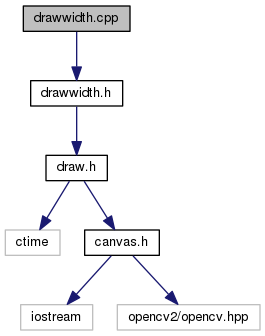
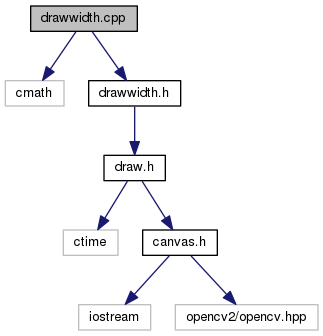
fixed line width

diff --git a/doc/doxygen/html/drawwidth_8h_source.html b/doc/doxygen/html/drawwidth_8h_source.html
@@ -92,7 +92,7 @@ var searchBox = new SearchBox("searchBox", "search",false,'Search');
 <div class="ttc" id="classDraw_html"><div class="ttname"><a href="classDraw.html">Draw</a></div><div class="ttdoc">Plain draw-line algorithm. </div><div class="ttdef"><b>Definition:</b> draw.h:8</div></div>
 <div class="ttc" id="classDraw_html_a72ed77716d9eb7068414f0e4e00753bd"><div class="ttname"><a href="classDraw.html#a72ed77716d9eb7068414f0e4e00753bd">Draw::canvas</a></div><div class="ttdeci">Canvas &amp; canvas</div><div class="ttdef"><b>Definition:</b> draw.h:17</div></div>
 <div class="ttc" id="canvas_8h_html_a084a39206618848fb8bc9187d3758c87"><div class="ttname"><a href="canvas_8h.html#a084a39206618848fb8bc9187d3758c87">Color</a></div><div class="ttdeci">cv::Vec3b Color</div><div class="ttdef"><b>Definition:</b> canvas.h:7</div></div>
-<div class="ttc" id="classDrawWidth_html_a566f96378bc924c2362551c062612131"><div class="ttname"><a href="classDrawWidth.html#a566f96378bc924c2362551c062612131">DrawWidth::drawImpl</a></div><div class="ttdeci">void drawImpl(int x0, int y0, int x1, int y1, const Color &amp;color) override</div><div class="ttdoc">Implementation. </div><div class="ttdef"><b>Definition:</b> drawwidth.cpp:3</div></div>
+<div class="ttc" id="classDrawWidth_html_a566f96378bc924c2362551c062612131"><div class="ttname"><a href="classDrawWidth.html#a566f96378bc924c2362551c062612131">DrawWidth::drawImpl</a></div><div class="ttdeci">void drawImpl(int x0, int y0, int x1, int y1, const Color &amp;color) override</div><div class="ttdoc">Implementation. </div><div class="ttdef"><b>Definition:</b> drawwidth.cpp:4</div></div>
 <div class="ttc" id="classDrawWidth_html"><div class="ttname"><a href="classDrawWidth.html">DrawWidth</a></div><div class="ttdoc">Draw lines with a width. </div><div class="ttdef"><b>Definition:</b> drawwidth.h:7</div></div>
 <div class="ttc" id="classDrawWidth_html_a4cad2704fa9da370c78651d704fb1d96"><div class="ttname"><a href="classDrawWidth.html#a4cad2704fa9da370c78651d704fb1d96">DrawWidth::WIDTH</a></div><div class="ttdeci">const int WIDTH</div><div class="ttdef"><b>Definition:</b> drawwidth.h:10</div></div>
 <div class="ttc" id="classDrawWidth_html_af073f8b445c1411582a6f2c2027ec8bd"><div class="ttname"><a href="classDrawWidth.html#af073f8b445c1411582a6f2c2027ec8bd">DrawWidth::DrawWidth</a></div><div class="ttdeci">DrawWidth(Canvas &amp;canvas, int _width)</div><div class="ttdef"><b>Definition:</b> drawwidth.h:16</div></div>

diff --git a/doc/doxygen/html/drawwidth_8cpp.html b/doc/doxygen/html/drawwidth_8cpp.html
@@ -88,15 +88,16 @@ var searchBox = new SearchBox("searchBox", "search",false,'Search');
 <div class="title">drawwidth.cpp File Reference</div>  </div>
 </div><!--header-->
 <div class="contents">
-<div class="textblock"><code>#include &quot;<a class="el" href="drawwidth_8h_source.html">drawwidth.h</a>&quot;</code><br />
+<div class="textblock"><code>#include &lt;cmath&gt;</code><br />
+<code>#include &quot;<a class="el" href="drawwidth_8h_source.html">drawwidth.h</a>&quot;</code><br />
 </div><div class="textblock"><div class="dynheader">
 Include dependency graph for drawwidth.cpp:</div>
 <div class="dyncontent">
 <div class="center"><img src="drawwidth_8cpp__incl.png" border="0" usemap="#drawwidth_8cpp" alt=""/></div>
 <map name="drawwidth_8cpp" id="drawwidth_8cpp">
-<area shape="rect" id="node2" href="drawwidth_8h.html" title="drawwidth.h" alt="" coords="31,80,123,107"/>
-<area shape="rect" id="node3" href="draw_8h.html" title="draw.h" alt="" coords="46,155,107,181"/>
-<area shape="rect" id="node5" href="canvas_8h.html" title="canvas.h" alt="" coords="85,229,159,256"/>
+<area shape="rect" id="node3" href="drawwidth_8h.html" title="drawwidth.h" alt="" coords="89,80,181,107"/>
+<area shape="rect" id="node4" href="draw_8h.html" title="draw.h" alt="" coords="104,155,165,181"/>
+<area shape="rect" id="node6" href="canvas_8h.html" title="canvas.h" alt="" coords="143,229,217,256"/>
 </map>
 </div>
 </div></div><!-- contents -->

diff --git a/doc/doxygen/html/classCanvas.html b/doc/doxygen/html/classCanvas.html
@@ -99,8 +99,6 @@ var searchBox = new SearchBox("searchBox", "search",false,'Search');
 Collaboration diagram for Canvas:</div>
 <div class="dyncontent">
 <div class="center"><img src="classCanvas__coll__graph.png" border="0" usemap="#Canvas_coll__map" alt="Collaboration graph"/></div>
-<map name="Canvas_coll__map" id="Canvas_coll__map">
-</map>
 </div>
 <table class="memberdecls">
 <tr class="heading"><td colspan="2"><h2 class="groupheader"><a name="pub-methods"></a>

diff --git a/doc/doxygen/html/canvas_8h.html b/doc/doxygen/html/canvas_8h.html
@@ -97,8 +97,6 @@ var searchBox = new SearchBox("searchBox", "search",false,'Search');
 Include dependency graph for canvas.h:</div>
 <div class="dyncontent">
 <div class="center"><img src="canvas_8h__incl.png" border="0" usemap="#canvas_8h" alt=""/></div>
-<map name="canvas_8h" id="canvas_8h">
-</map>
 </div>
 </div><div class="textblock"><div class="dynheader">
 This graph shows which files directly or indirectly include this file:</div>

diff --git a/doc/doxygen/html/const_8h.html b/doc/doxygen/html/const_8h.html
@@ -95,8 +95,6 @@ var searchBox = new SearchBox("searchBox", "search",false,'Search');
 Include dependency graph for const.h:</div>
 <div class="dyncontent">
 <div class="center"><img src="const_8h__incl.png" border="0" usemap="#const_8h" alt=""/></div>
-<map name="const_8h" id="const_8h">
-</map>
 </div>
 </div><div class="textblock"><div class="dynheader">
 This graph shows which files directly or indirectly include this file:</div>

diff --git a/src/drawsampling.cpp b/src/drawsampling.cpp
@@ -16,6 +16,7 @@ void DrawSampling::drawImpl(int x0, int y0, int x1, int y1, const Color &color)
     int minY(y0); // Mininum realY while realX has not been changed
     int acc0(0), acc1(0), acc2(0); // Accumulated weight for realY = minY + 0, 1 or 2
     int dx(x1 - x0), dy(y1 - y0), e(-dx);
+    int height = LEN * dx / sqrt(dx * dx + dy * dy);
     for (int i = 0; i < dx * LEN; i++)
     {
         int *accLower, *accUpper;
@@ -26,9 +27,13 @@ void DrawSampling::drawImpl(int x0, int y0, int x1, int y1, const Color &color)
             assert(realY == minY + 1);
             accLower = &acc1, accUpper = &acc2;
         }
-        *accLower += SUM[LEN - 1 - gridY][gridX];
-        if (gridY)
-            *accUpper += SUM[gridY - 1][gridX];
+        if (gridY + height <= LEN)
+            *accLower += SUM[gridY + height - 1][gridX] - (gridY ? SUM[gridY - 1][gridX] : 0);
+        else
+        {
+            *accLower += SUM[LEN - 1 - gridY][gridX];
+            *accUpper += SUM[gridY + height - LEN][gridX];
+        }
 
         e += 2 * dy;
         if (e >= 0)

diff --git a/doc/doxygen/latex/drawwidth_8h.tex b/doc/doxygen/latex/drawwidth_8h.tex
@@ -1,16 +1,14 @@
 \hypertarget{drawwidth_8h}{}\section{drawwidth.\+h File Reference}
 \label{drawwidth_8h}\index{drawwidth.\+h@{drawwidth.\+h}}
 {\ttfamily \#include \char`\"{}draw.\+h\char`\"{}}\\*
-Include dependency graph for drawwidth.\+h\+:
-\nopagebreak
+Include dependency graph for drawwidth.\+h\+:\nopagebreak
 \begin{figure}[H]
 \begin{center}
 \leavevmode
 \includegraphics[width=271pt]{drawwidth_8h__incl}
 \end{center}
 \end{figure}
-This graph shows which files directly or indirectly include this file\+:
-\nopagebreak
+This graph shows which files directly or indirectly include this file\+:\nopagebreak
 \begin{figure}[H]
 \begin{center}
 \leavevmode

diff --git a/doc/doxygen/latex/drawsampling_8h.tex b/doc/doxygen/latex/drawsampling_8h.tex
@@ -2,16 +2,14 @@
 \label{drawsampling_8h}\index{drawsampling.\+h@{drawsampling.\+h}}
 {\ttfamily \#include $<$array$>$}\\*
 {\ttfamily \#include \char`\"{}draw.\+h\char`\"{}}\\*
-Include dependency graph for drawsampling.\+h\+:
-\nopagebreak
+Include dependency graph for drawsampling.\+h\+:\nopagebreak
 \begin{figure}[H]
 \begin{center}
 \leavevmode
 \includegraphics[width=297pt]{drawsampling_8h__incl}
 \end{center}
 \end{figure}
-This graph shows which files directly or indirectly include this file\+:
-\nopagebreak
+This graph shows which files directly or indirectly include this file\+:\nopagebreak
 \begin{figure}[H]
 \begin{center}
 \leavevmode

diff --git a/doc/doxygen/latex/drawkernel_8h.tex b/doc/doxygen/latex/drawkernel_8h.tex
@@ -2,16 +2,14 @@
 \label{drawkernel_8h}\index{drawkernel.\+h@{drawkernel.\+h}}
 {\ttfamily \#include $<$iostream$>$}\\*
 {\ttfamily \#include \char`\"{}drawsampling.\+h\char`\"{}}\\*
-Include dependency graph for drawkernel.\+h\+:
-\nopagebreak
+Include dependency graph for drawkernel.\+h\+:\nopagebreak
 \begin{figure}[H]
 \begin{center}
 \leavevmode
 \includegraphics[width=268pt]{drawkernel_8h__incl}
 \end{center}
 \end{figure}
-This graph shows which files directly or indirectly include this file\+:
-\nopagebreak
+This graph shows which files directly or indirectly include this file\+:\nopagebreak
 \begin{figure}[H]
 \begin{center}
 \leavevmode

diff --git a/doc/doxygen/latex/canvas_8h.tex b/doc/doxygen/latex/canvas_8h.tex
@@ -2,16 +2,14 @@
 \label{canvas_8h}\index{canvas.\+h@{canvas.\+h}}
 {\ttfamily \#include $<$iostream$>$}\\*
 {\ttfamily \#include $<$opencv2/opencv.\+hpp$>$}\\*
-Include dependency graph for canvas.\+h\+:
-\nopagebreak
+Include dependency graph for canvas.\+h\+:\nopagebreak
 \begin{figure}[H]
 \begin{center}
 \leavevmode
 \includegraphics[width=260pt]{canvas_8h__incl}
 \end{center}
 \end{figure}
-This graph shows which files directly or indirectly include this file\+:
-\nopagebreak
+This graph shows which files directly or indirectly include this file\+:\nopagebreak
 \begin{figure}[H]
 \begin{center}
 \leavevmode

diff --git a/doc/doxygen/latex/const_8h.tex b/doc/doxygen/latex/const_8h.tex
@@ -1,16 +1,14 @@
 \hypertarget{const_8h}{}\section{const.\+h File Reference}
 \label{const_8h}\index{const.\+h@{const.\+h}}
 {\ttfamily \#include $<$cmath$>$}\\*
-Include dependency graph for const.\+h\+:
-\nopagebreak
+Include dependency graph for const.\+h\+:\nopagebreak
 \begin{figure}[H]
 \begin{center}
 \leavevmode
 \includegraphics[width=129pt]{const_8h__incl}
 \end{center}
 \end{figure}
-This graph shows which files directly or indirectly include this file\+:
-\nopagebreak
+This graph shows which files directly or indirectly include this file\+:\nopagebreak
 \begin{figure}[H]
 \begin{center}
 \leavevmode

diff --git a/doc/doxygen/latex/draw_8h.tex b/doc/doxygen/latex/draw_8h.tex
@@ -2,16 +2,14 @@
 \label{draw_8h}\index{draw.\+h@{draw.\+h}}
 {\ttfamily \#include $<$ctime$>$}\\*
 {\ttfamily \#include \char`\"{}canvas.\+h\char`\"{}}\\*
-Include dependency graph for draw.\+h\+:
-\nopagebreak
+Include dependency graph for draw.\+h\+:\nopagebreak
 \begin{figure}[H]
 \begin{center}
 \leavevmode
 \includegraphics[width=271pt]{draw_8h__incl}
 \end{center}
 \end{figure}
-This graph shows which files directly or indirectly include this file\+:
-\nopagebreak
+This graph shows which files directly or indirectly include this file\+:\nopagebreak
 \begin{figure}[H]
 \begin{center}
 \leavevmode
